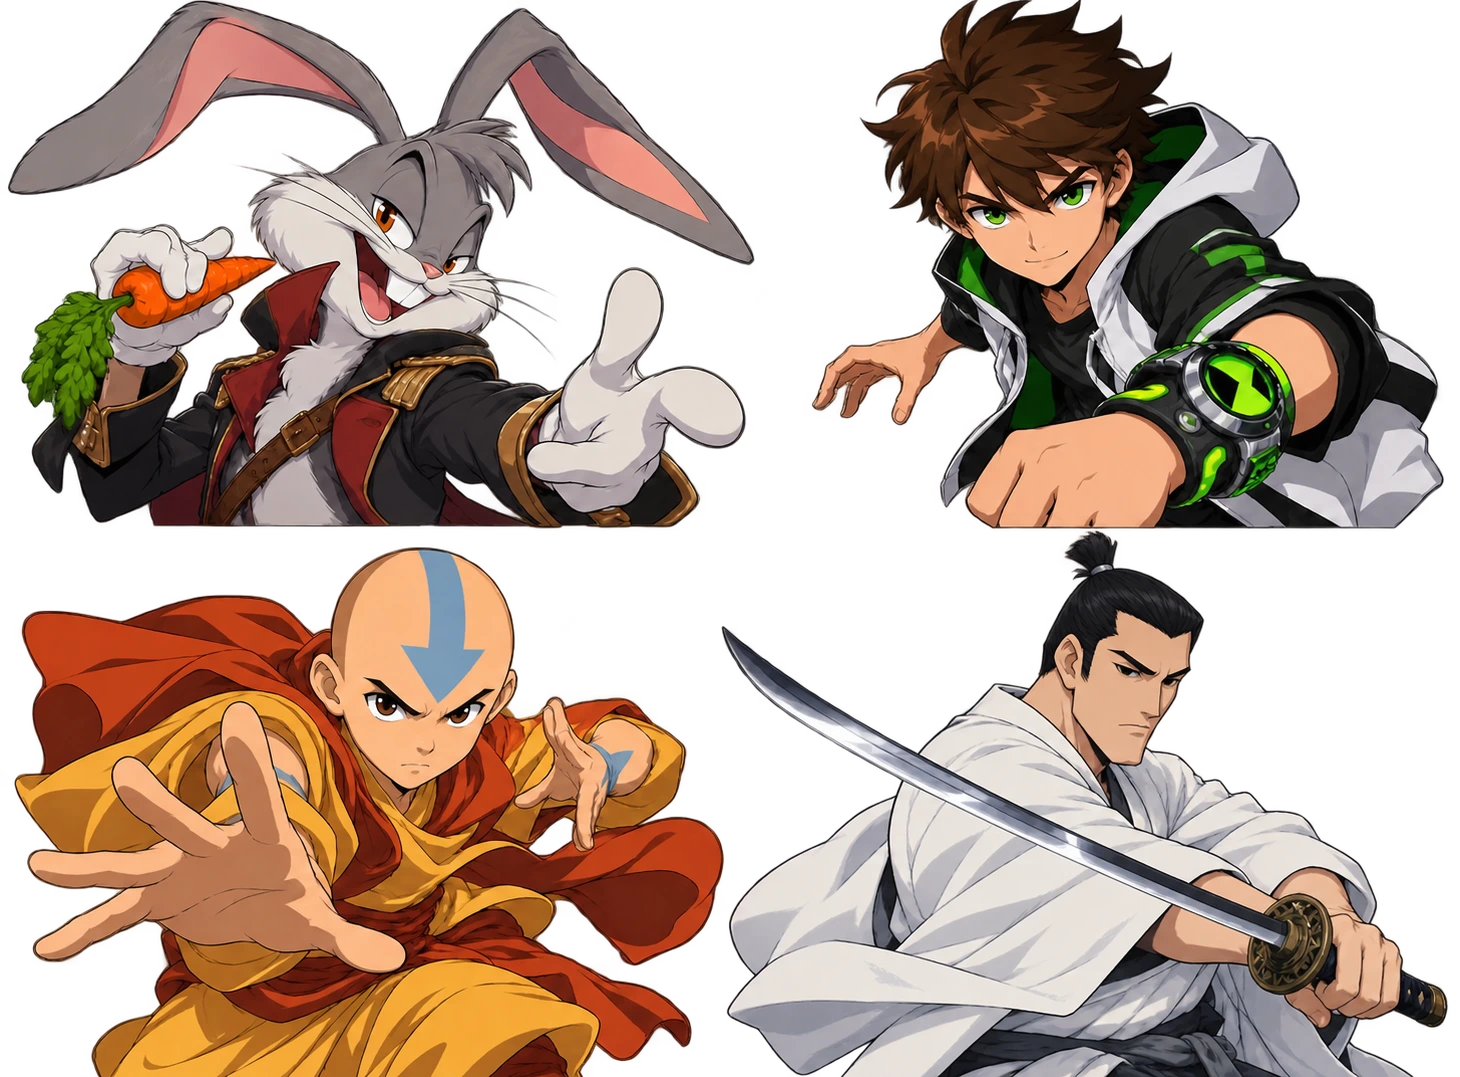
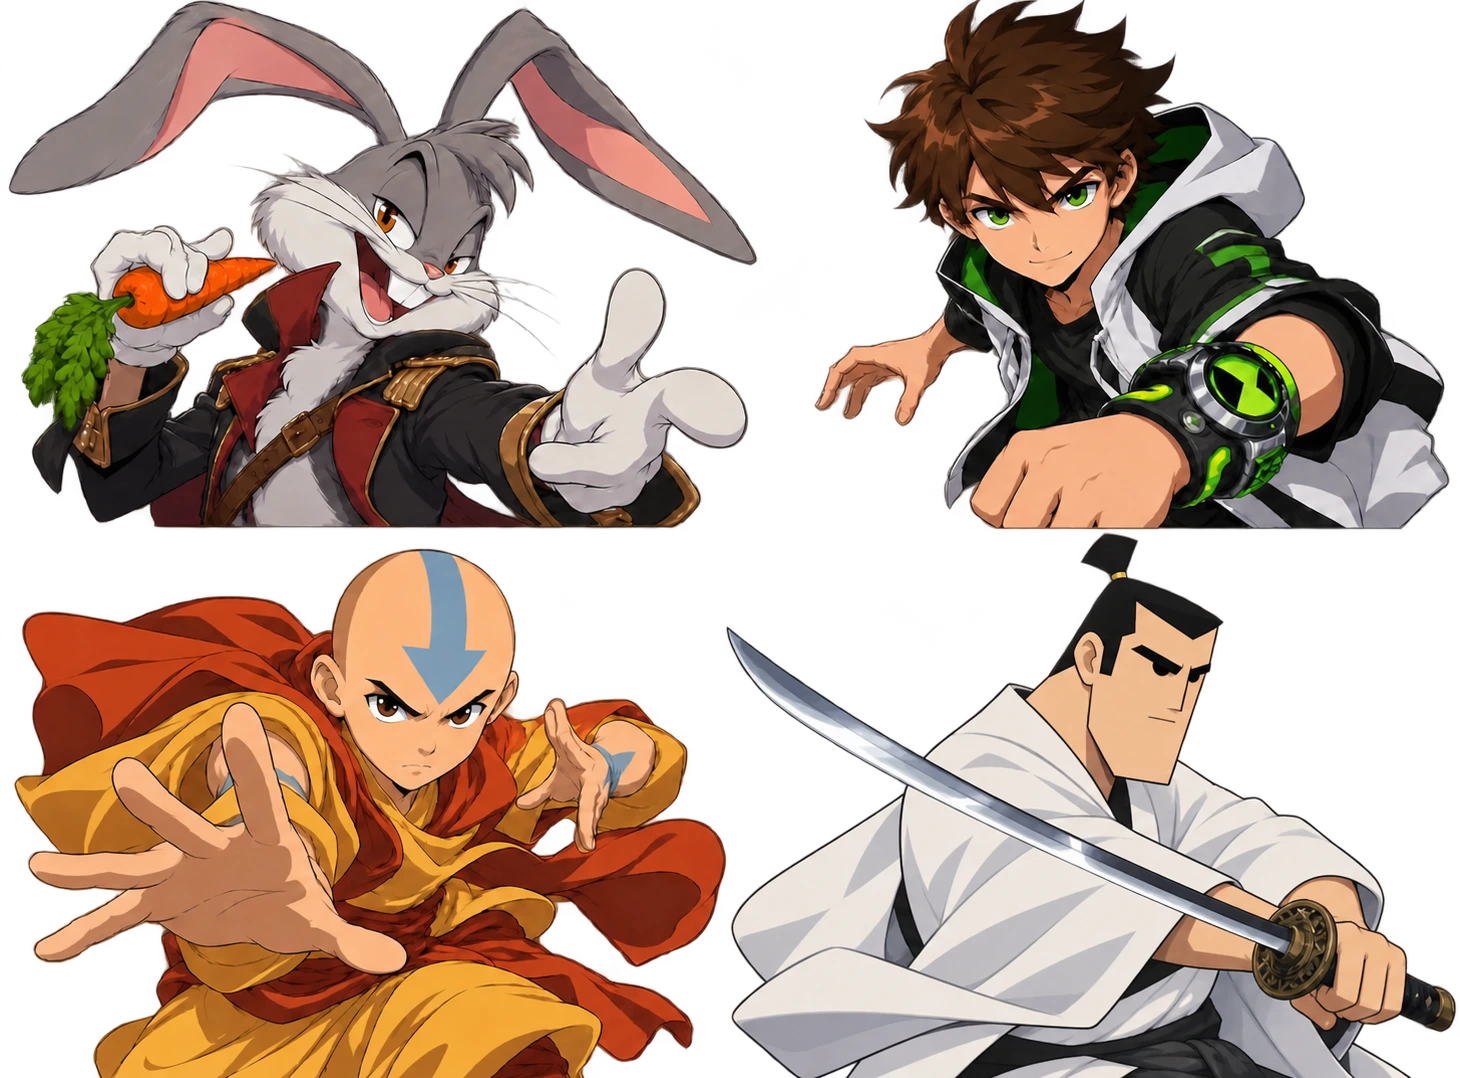
Refine Samurai Jack and Finn portraits; hold Rick for redraw
Give Jack the graphic square face of the animation and Finn his simple white hood and dot-eye cartoon face. Preserve the other characters in their four-up sheets. Stop using the inaccurate Rick portrait until a faithful replacement is ready.

diff --git a/tests/assets.test.ts b/tests/assets.test.ts
@@ -23,7 +23,7 @@ describe('Arte local e composição',()=>{
     const approved=new Set(approvedPortraits);
     const expanded=characters.slice(100);
     expect(approved.size).toBe(approvedPortraits.length);
-    expect(expanded.filter(character=>approved.has(character.id))).toHaveLength(116);
+    expect(expanded.filter(character=>approved.has(character.id))).toHaveLength(115);
     for(const character of expanded){
       const reviewed=approved.has(character.id);
       expect(character.portrait).toBe(reviewed

diff --git a/scripts/create-expanded-portraits.py b/scripts/create-expanded-portraits.py
@@ -92,7 +92,7 @@ def main() -> None:
                 right = round((column+1) * image.width / 2) - 6
                 bottom = round((row+1) * image.height / 2) - 6
                 art = image.crop((left, top, right, bottom)).convert('RGBA')
-                if character['id'] in {'kirby', 'donkeykong'}:
+                if character['id'] in {'kirby', 'donkeykong', 'finn'}:
                     art = keep_main_silhouette(art)
                 if art.getchannel('A').getextrema()[0] != 0:
                     raise ValueError(f'Grid must have true transparency: {source}')
